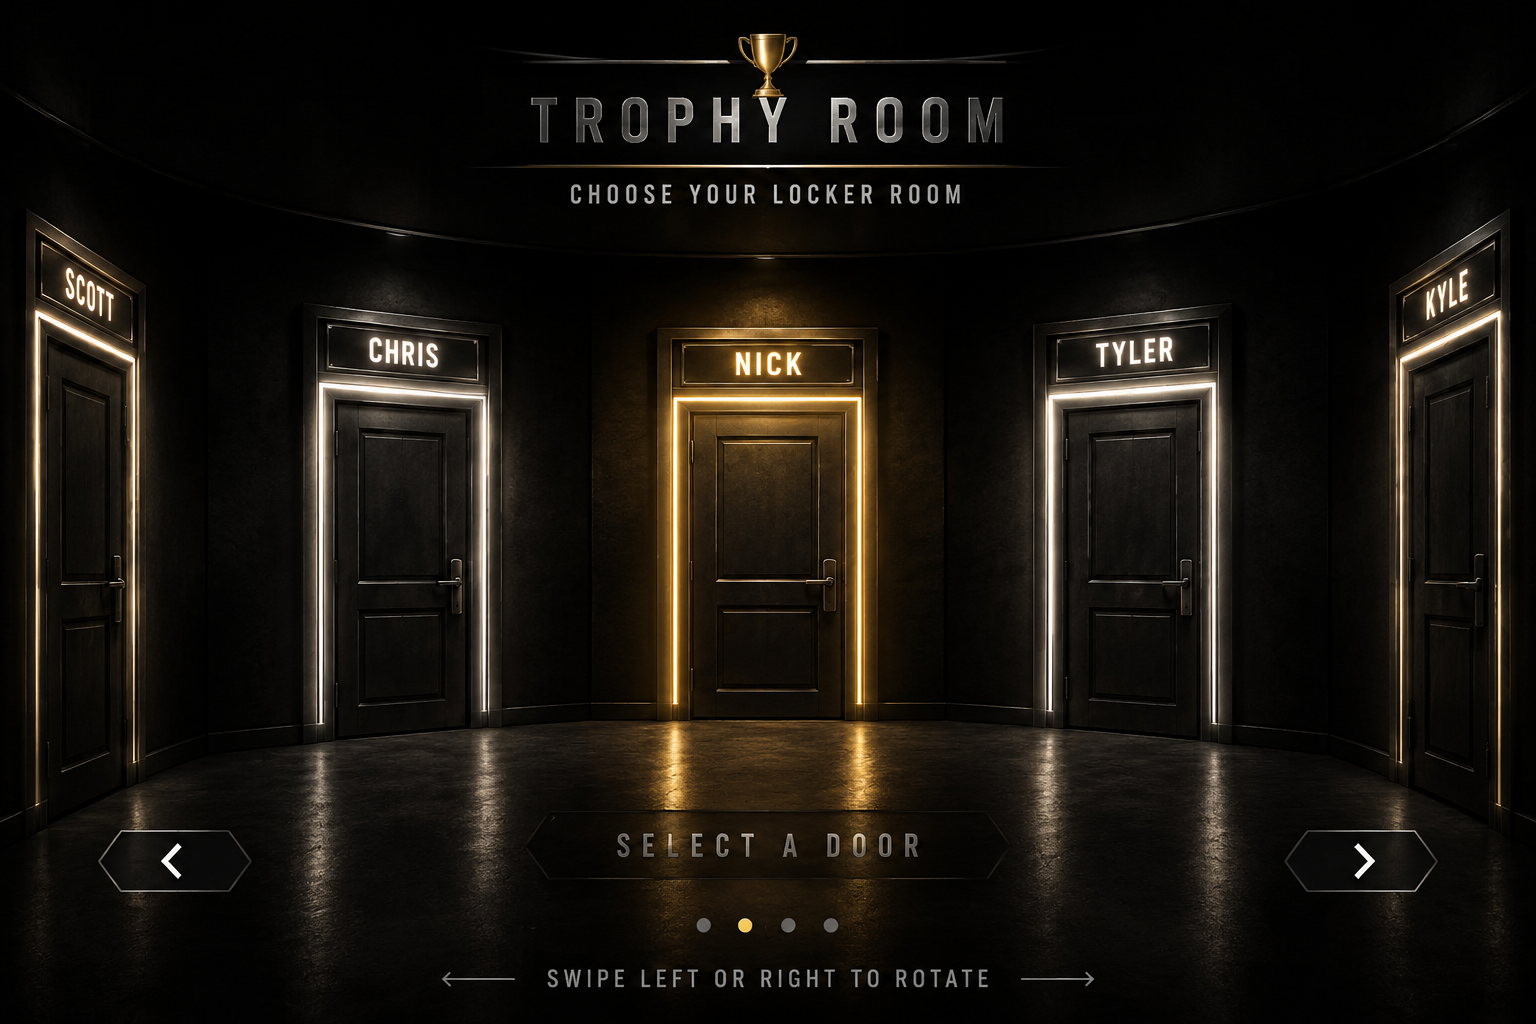
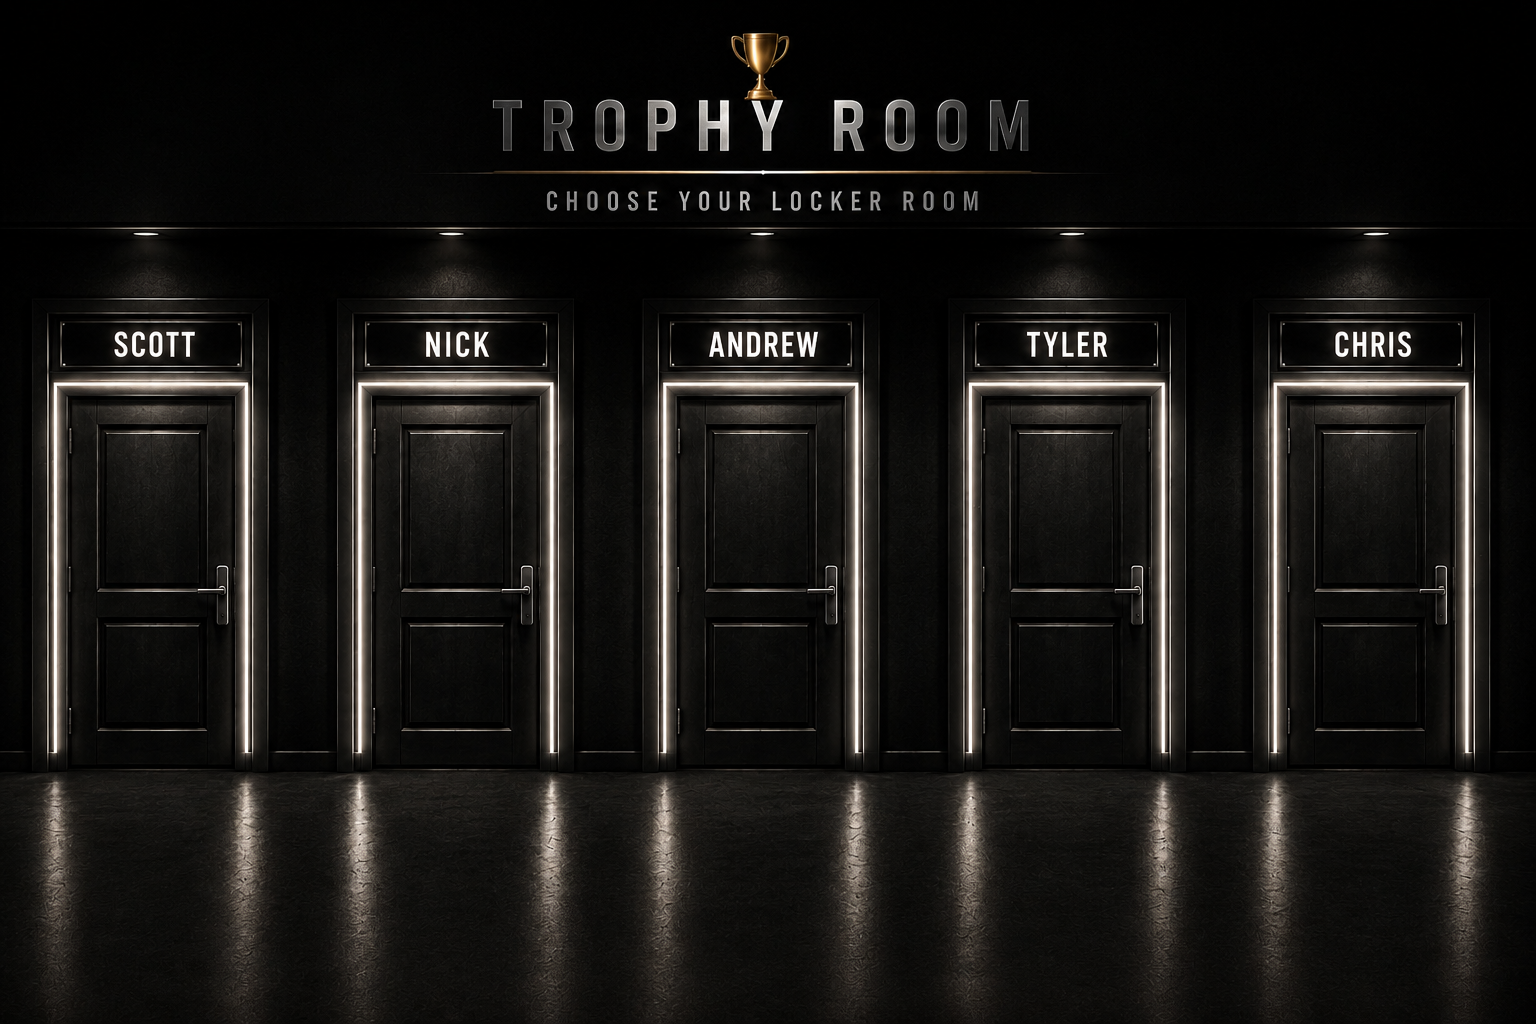
Add files via upload

Changed region(s): [[0.0, 0.0312, 1.0, 1.0]]

diff --git a/index.html b/index.html
@@ -4425,93 +4425,81 @@
 })();
 </script>
 
-<style id="v166-exact-trophy-lobby-clean-style">
-  /* V166: exact image lobby, no CSS door recreation. */
+<style id="v167-straight-trophy-lobby-style">
+  /* V167: exact straight five-door Trophy Room image. No generated/CSS doors, no label repair, no extra light overlay. */
   #rosters > .section-head, #rostersSourceStatus{display:none!important;}
   #rosters.panel{padding-top:0!important;}
   #rosters #rosterCards{display:block!important;margin-top:0!important;}
   #rosters .trophy-lobby{display:none!important;}
   #rosters .exact-lobby-host{display:block!important;width:100%;padding:0!important;margin:0!important;}
-  #rosters .exact-lobby-shell{position:relative!important;width:100%!important;max-width:1536px!important;margin:0 auto!important;aspect-ratio:1536/1024!important;overflow:hidden!important;background:#000!important;border:0!important;border-radius:0!important;box-shadow:none!important;isolation:isolate!important;touch-action:pan-y!important;}
-  #rosters .exact-lobby-scene{position:absolute!important;inset:0!important;z-index:0!important;width:100%!important;height:100%!important;object-fit:contain!important;object-position:center center!important;display:block!important;transform:none!important;filter:none!important;transition:transform .55s ease, filter .35s ease!important;}
-  #rosters .exact-lobby-shell.is-entering .exact-lobby-scene{transform:scale(1.18)!important;filter:brightness(.42) blur(1.2px)!important;}
-  #rosters .andrew-label-repair{position:absolute;z-index:4;left:89.15%;top:23.05%;width:8.15%;height:5.2%;display:flex;align-items:center;justify-content:center;background:linear-gradient(180deg,rgba(18,18,14,.96),rgba(4,4,4,.96));border:1px solid rgba(211,195,126,.55);box-shadow:0 0 10px rgba(255,224,150,.20), inset 0 0 16px rgba(255,245,190,.04);color:#fff1bd;font-family:'Arial Narrow','Roboto Condensed',Arial,sans-serif;font-weight:900;letter-spacing:.08em;text-transform:uppercase;text-shadow:0 0 7px rgba(255,238,180,.75);font-size:clamp(10px,1.55vw,25px);transform:skewY(-4deg);pointer-events:none;}
-  #rosters .exact-lobby-light{position:absolute;z-index:3;pointer-events:none;border-radius:8px;border:1px solid rgba(255,226,143,.55);box-shadow:0 0 20px rgba(255,227,150,.88),0 0 58px rgba(255,188,52,.46),inset 0 0 32px rgba(255,226,143,.16);background:radial-gradient(ellipse at 50% 16%,rgba(255,232,166,.26),rgba(255,208,87,.09) 34%,rgba(0,0,0,0) 72%);mix-blend-mode:screen;transition:left .32s ease,top .32s ease,width .32s ease,height .32s ease,opacity .22s ease;opacity:.78;}
-  #rosters .exact-lobby-shell[data-focus="scott"] .exact-lobby-light{left:1.4%;top:23.0%;width:13.6%;height:57.5%;}
-  #rosters .exact-lobby-shell[data-focus="chris"] .exact-lobby-light{left:20.0%;top:31.6%;width:14.9%;height:44.8%;}
-  #rosters .exact-lobby-shell[data-focus="nick"] .exact-lobby-light{left:42.5%;top:31.6%;width:15.8%;height:45.5%;}
-  #rosters .exact-lobby-shell[data-focus="tyler"] .exact-lobby-light{left:67.2%;top:31.7%;width:15.0%;height:45.0%;}
-  #rosters .exact-lobby-shell[data-focus="andrew"] .exact-lobby-light{left:84.8%;top:23.0%;width:13.6%;height:57.5%;}
-  #rosters .exact-lobby-hotzone{position:absolute!important;z-index:20!important;border:0!important;background:rgba(0,0,0,0)!important;color:transparent!important;padding:0!important;cursor:pointer!important;outline:none!important;pointer-events:auto!important;}
-  #rosters .exact-lobby-hotzone:focus-visible{outline:2px solid rgba(255,215,120,.7)!important;outline-offset:2px!important;}
-  #rosters .exact-lobby-hotzone.scott{left:1.4%;top:23.0%;width:13.6%;height:57.5%;}
-  #rosters .exact-lobby-hotzone.chris{left:20.0%;top:31.6%;width:14.9%;height:44.8%;}
-  #rosters .exact-lobby-hotzone.nick{left:42.5%;top:31.6%;width:15.8%;height:45.5%;}
-  #rosters .exact-lobby-hotzone.tyler{left:67.2%;top:31.7%;width:15.0%;height:45.0%;}
-  #rosters .exact-lobby-hotzone.andrew{left:84.8%;top:23.0%;width:13.6%;height:57.5%;}
-  #rosters .exact-lobby-hotzone.prev{left:5.5%;bottom:10.0%;width:11.3%;height:7.6%;}
-  #rosters .exact-lobby-hotzone.next{right:5.8%;bottom:10.0%;width:11.3%;height:7.6%;}
-  #rosters .exact-lobby-hotzone.select{left:34.2%;bottom:8.9%;width:31.6%;height:8.5%;}
-  #rosters .exact-enter-flash{position:absolute;inset:0;z-index:30;pointer-events:none;opacity:0;background:radial-gradient(circle at var(--enter-x,50%) var(--enter-y,48%),rgba(255,230,145,.88),rgba(255,230,145,.12) 15%,rgba(0,0,0,.93) 52%,#000 100%);transition:opacity .28s ease;}
-  #rosters .exact-lobby-shell.is-entering .exact-enter-flash{opacity:1;}
-  #rosters .exact-lobby-shell.is-entering .exact-lobby-light{opacity:0;}
-  @media(max-width:760px){#rosters.panel{padding-left:0!important;padding-right:0!important;}#rosters .exact-lobby-shell{width:100vw!important;margin-left:50%!important;transform:translateX(-50%)!important;}}
+  #rosters .straight-lobby-shell{
+    position:relative!important;width:100%!important;max-width:1536px!important;margin:0 auto!important;
+    aspect-ratio:1536/1024!important;overflow:hidden!important;background:#000!important;border:0!important;
+    border-radius:0!important;box-shadow:none!important;isolation:isolate!important;touch-action:pan-y!important;
+  }
+  #rosters .straight-lobby-scene{
+    position:absolute!important;inset:0!important;z-index:0!important;width:100%!important;height:100%!important;
+    object-fit:contain!important;object-position:center center!important;display:block!important;transform:none!important;
+    filter:none!important;transition:transform .45s ease, filter .30s ease!important;
+  }
+  #rosters .straight-lobby-shell.is-entering .straight-lobby-scene{transform:scale(1.14)!important;filter:brightness(.38) blur(1px)!important;}
+  #rosters .straight-door-hotzone{
+    position:absolute!important;z-index:20!important;border:0!important;background:rgba(0,0,0,0)!important;
+    color:transparent!important;padding:0!important;cursor:pointer!important;outline:none!important;pointer-events:auto!important;
+  }
+  #rosters .straight-door-hotzone:focus-visible{outline:2px solid rgba(255,235,165,.75)!important;outline-offset:2px!important;}
+  /* Door hitboxes align to the straight-on five-door image: Scott, Nick, Andrew, Tyler, Chris. */
+  #rosters .straight-door-hotzone.scott{left:2.1%;top:29.1%;width:15.1%;height:48.8%;}
+  #rosters .straight-door-hotzone.nick{left:22.3%;top:29.0%;width:15.4%;height:48.9%;}
+  #rosters .straight-door-hotzone.andrew{left:42.2%;top:29.0%;width:15.7%;height:48.9%;}
+  #rosters .straight-door-hotzone.tyler{left:62.4%;top:29.0%;width:15.4%;height:48.9%;}
+  #rosters .straight-door-hotzone.chris{left:82.4%;top:29.0%;width:15.2%;height:48.9%;}
+  #rosters .straight-enter-flash{position:absolute;inset:0;z-index:30;pointer-events:none;opacity:0;background:radial-gradient(circle at var(--enter-x,50%) var(--enter-y,52%),rgba(255,238,170,.80),rgba(255,238,170,.12) 16%,rgba(0,0,0,.88) 54%,#000 100%);transition:opacity .26s ease;}
+  #rosters .straight-lobby-shell.is-entering .straight-enter-flash{opacity:1;}
+  @media(max-width:760px){#rosters.panel{padding-left:0!important;padding-right:0!important;}#rosters .straight-lobby-shell{width:100vw!important;margin-left:50%!important;transform:translateX(-50%)!important;}}
 </style>
-<script id="v166-exact-trophy-lobby-clean-script">
+<script id="v167-straight-trophy-lobby-script">
 (function(){
   const owners=[
     {id:'scott',label:'Scott'},
-    {id:'chris',label:'Chris'},
     {id:'nick',label:'Nick'},
+    {id:'andrew',label:'Andrew'},
     {id:'tyler',label:'Tyler'},
-    {id:'andrew',label:'Andrew'}
+    {id:'chris',label:'Chris'}
   ];
-  let focusIndex=2;
-  function ownerById(id){return owners.find(o=>o.id===id)||owners[focusIndex]||owners[2];}
-  function focusId(){return (owners[focusIndex]||owners[2]).id;}
-  function setFocus(id){const i=owners.findIndex(o=>o.id===id); if(i>=0){focusIndex=i; applyFocus();}}
-  function rotate(step){focusIndex=(focusIndex+step+owners.length)%owners.length; applyFocus();}
-  function shell(){return document.querySelector('#rosterCards .exact-lobby-shell');}
-  function applyFocus(){const sh=shell(); if(!sh) return; sh.dataset.focus=focusId(); sh.querySelectorAll('[data-enter-door]').forEach(b=>b.classList.toggle('is-selected',b.dataset.enterDoor===focusId()));}
-  function enter(id, src){const o=ownerById(id||focusId()); setFocus(o.id); const sh=shell(); if(sh){const s=src&&src.getBoundingClientRect?src:(sh.querySelector('[data-enter-door="'+o.id+'"]')||sh); const r=s.getBoundingClientRect(), sr=sh.getBoundingClientRect(); sh.style.setProperty('--enter-x',(((r.left+r.width/2-sr.left)/sr.width)*100).toFixed(1)+'%'); sh.style.setProperty('--enter-y',(((r.top+r.height/2-sr.top)/sr.height)*100).toFixed(1)+'%'); sh.classList.add('is-entering');}
-    setTimeout(function(){ if(typeof window.openRosterStall==='function') window.openRosterStall(o.id); }, 420);
+  function ownerById(id){return owners.find(o=>o.id===id)||owners[1];}
+  function enter(id, src){
+    const o=ownerById(id);
+    const sh=document.querySelector('#rosterCards .straight-lobby-shell');
+    if(sh){
+      const s=src&&src.getBoundingClientRect?src:(sh.querySelector('[data-enter-door="'+o.id+'"]')||sh);
+      const r=s.getBoundingClientRect(), sr=sh.getBoundingClientRect();
+      sh.style.setProperty('--enter-x',(((r.left+r.width/2-sr.left)/sr.width)*100).toFixed(1)+'%');
+      sh.style.setProperty('--enter-y',(((r.top+r.height/2-sr.top)/sr.height)*100).toFixed(1)+'%');
+      sh.classList.add('is-entering');
+    }
+    setTimeout(function(){ if(typeof window.openRosterStall==='function') window.openRosterStall(o.id); }, 360);
   }
-  function renderExactLobby(draft){
+  function renderStraightLobby(draft){
     window.__exactLobbyDraft=draft||{};
     const target=document.getElementById('rosterCards'); if(!target) return;
-    target.className='walkable-locker-host trophy-lobby-host exact-lobby-host';
-    target.innerHTML='<section class="exact-lobby-shell" data-focus="'+focusId()+'" aria-label="Trophy Room locker lobby">'+
-      '<img class="exact-lobby-scene" src="assets/images/trophy-room-lobby-reference.png?v=166" alt="Dark circular Trophy Room lobby with glowing owner doors">'+
-      '<span class="andrew-label-repair" aria-hidden="true">Andrew</span>'+
-      '<span class="exact-lobby-light" aria-hidden="true"></span>'+
-      '<button class="exact-lobby-hotzone scott" data-enter-door="scott" aria-label="Select Scott door">Scott</button>'+
-      '<button class="exact-lobby-hotzone chris" data-enter-door="chris" aria-label="Select Chris door">Chris</button>'+
-      '<button class="exact-lobby-hotzone nick" data-enter-door="nick" aria-label="Enter Nick door">Nick</button>'+
-      '<button class="exact-lobby-hotzone tyler" data-enter-door="tyler" aria-label="Select Tyler door">Tyler</button>'+
-      '<button class="exact-lobby-hotzone andrew" data-enter-door="andrew" aria-label="Select Andrew door">Andrew</button>'+
-      '<button class="exact-lobby-hotzone prev" data-rotate-step="-1" aria-label="Rotate left">Previous</button>'+
-      '<button class="exact-lobby-hotzone next" data-rotate-step="1" aria-label="Rotate right">Next</button>'+
-      '<button class="exact-lobby-hotzone select" data-select-current="1" aria-label="Enter selected door">Select door</button>'+
-      '<span class="exact-enter-flash" aria-hidden="true"></span>'+
+    target.className='walkable-locker-host trophy-lobby-host exact-lobby-host straight-lobby-host';
+    target.innerHTML='<section class="straight-lobby-shell" aria-label="Trophy Room locker doors">'+
+      '<img class="straight-lobby-scene" src="assets/images/trophy-room-lobby-reference.png?v=167" alt="Straight-on Trophy Room lobby with five named doors: Scott, Nick, Andrew, Tyler, and Chris">'+
+      owners.map(o=>'<button class="straight-door-hotzone '+o.id+'" data-enter-door="'+o.id+'" type="button" aria-label="Enter '+o.label+' locker room">'+o.label+'</button>').join('')+
+      '<span class="straight-enter-flash" aria-hidden="true"></span>'+ 
     '</section>';
-    applyFocus();
   }
   document.addEventListener('click',function(e){
-    const sh=e.target.closest && e.target.closest('#rosterCards .exact-lobby-shell');
-    if(!sh) return;
-    const rot=e.target.closest('[data-rotate-step]');
-    if(rot){e.preventDefault();e.stopPropagation();rotate(parseInt(rot.dataset.rotateStep||'1',10));return;}
-    const door=e.target.closest('[data-enter-door]');
-    if(door){e.preventDefault();e.stopPropagation();const id=door.dataset.enterDoor;if(id===focusId()) enter(id,door); else setFocus(id);return;}
-    const sel=e.target.closest('[data-select-current]');
-    if(sel){e.preventDefault();e.stopPropagation();enter(focusId(),sel);}
+    const door=e.target.closest&&e.target.closest('#rosterCards .straight-door-hotzone[data-enter-door]');
+    if(!door) return;
+    e.preventDefault(); e.stopPropagation();
+    enter(door.dataset.enterDoor, door);
   }, true);
-  document.addEventListener('pointerdown',function(e){const sh=e.target.closest&&e.target.closest('#rosterCards .exact-lobby-shell'); if(!sh) return; sh.__swipeStart=e.clientX;}, true);
-  document.addEventListener('pointerup',function(e){const sh=e.target.closest&&e.target.closest('#rosterCards .exact-lobby-shell'); if(!sh||sh.__swipeStart==null) return; const dx=e.clientX-sh.__swipeStart; sh.__swipeStart=null; if(Math.abs(dx)>45){e.preventDefault(); rotate(dx>0?-1:1);}}, true);
-  window.__renderExactTrophyLobby=renderExactLobby;
-  window.renderDraftRosters=renderExactLobby;
-  window.renderWalkableLockerRoom=renderExactLobby;
-  window.addEventListener('load',function(){setTimeout(async function(){try{if(window.officialDraftApi&&window.officialDraftApi.load){renderExactLobby(await window.officialDraftApi.load());return;}}catch(err){} renderExactLobby(window.__exactLobbyDraft||{});},120);});
+  window.__renderExactTrophyLobby=renderStraightLobby;
+  window.renderDraftRosters=renderStraightLobby;
+  window.renderWalkableLockerRoom=renderStraightLobby;
+  window.addEventListener('load',function(){setTimeout(async function(){try{if(window.officialDraftApi&&window.officialDraftApi.load){renderStraightLobby(await window.officialDraftApi.load());return;}}catch(err){} renderStraightLobby(window.__exactLobbyDraft||{});},140);});
 })();
 </script>
 
